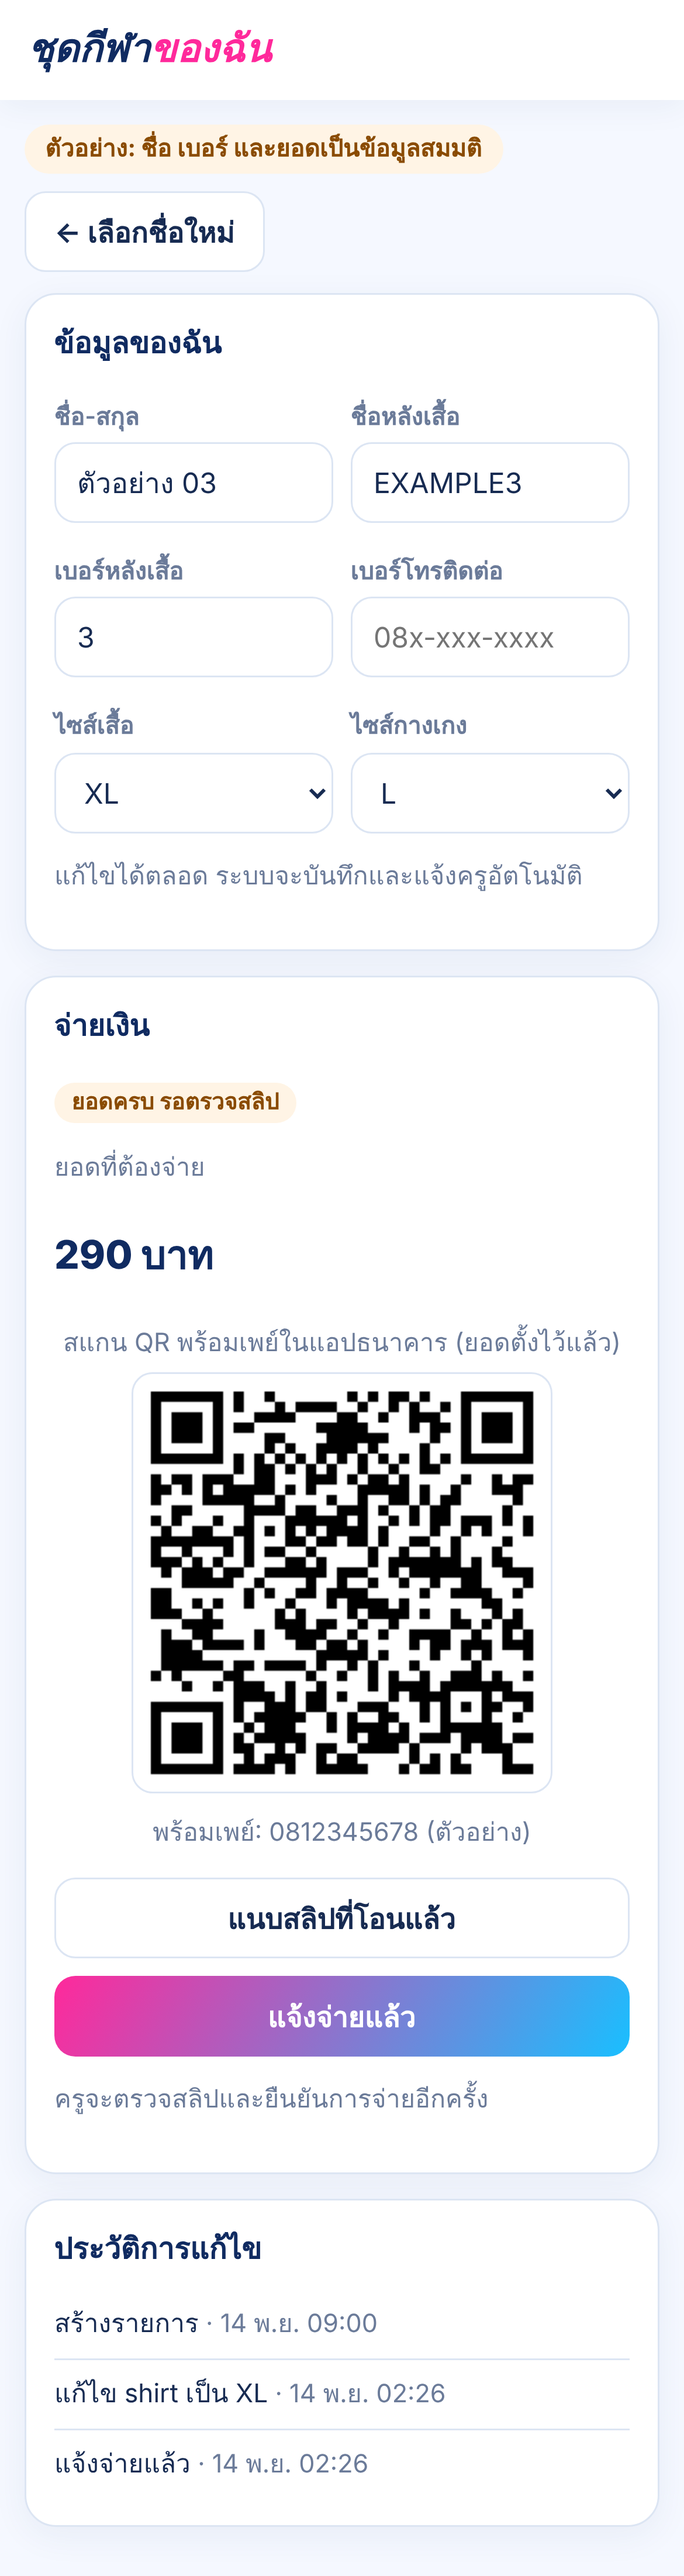
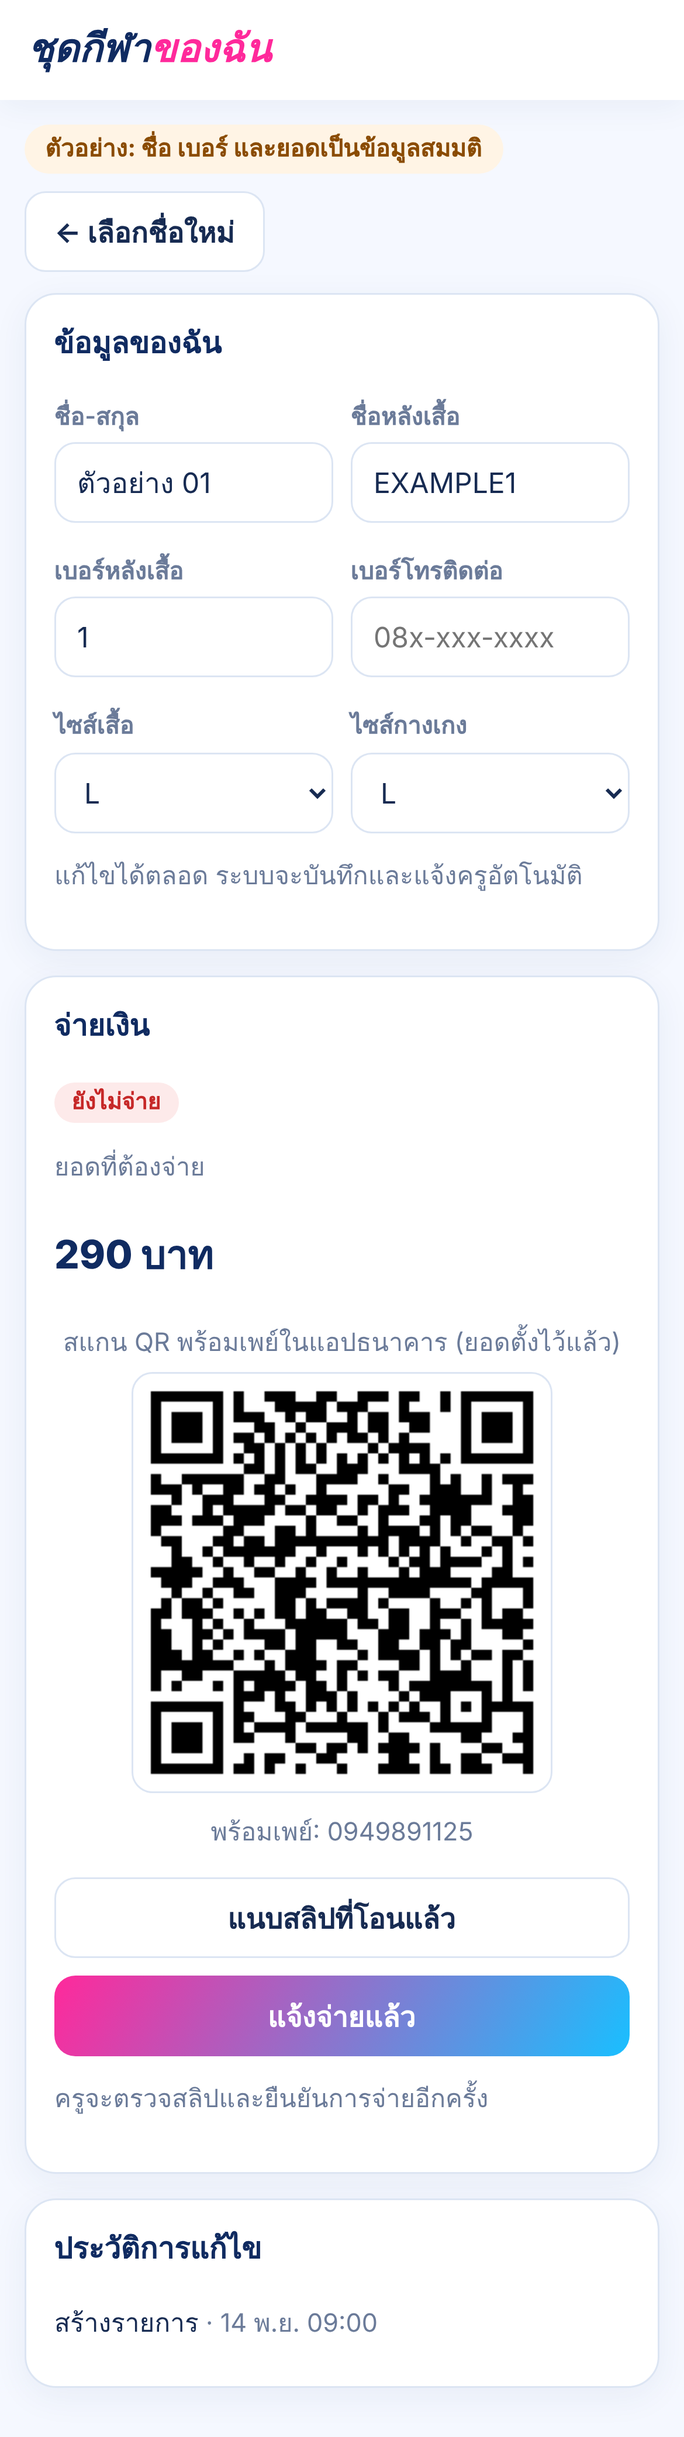
Use the PromptPay number for the member payment QR
Claude-Session: https://claude.ai/code/session_01LatjegdXUhezEsxLPmhD8J

diff --git a/firebase/preview/member-preview.html b/firebase/preview/member-preview.html
@@ -91,7 +91,7 @@ input,select{width:100%;font:inherit;font-size:16px;min-height:46px;padding:8px 
 
 <script>
 // ตัวอย่างข้อมูลสมมติทั้งหมด
-const PROMPTPAY_ID = "0812345678"; // เลขพร้อมเพย์ตัวอย่าง ต้องเปลี่ยนเป็นของบัญชีรับเงินจริง
+const PROMPTPAY_ID = "0949891125"; // เลขพร้อมเพย์ของบัญชีรับเงิน
 const PRICE = 290;
 const SIZES_SHIRT = ["SSS","SS","S","M","L","XL","2XL","3XL","4XL","5XL"];
 const SIZES_PANTS = ["SS","S","M","L","XL"];
@@ -160,7 +160,7 @@ function renderMe(){
   badge.textContent = LABEL[st];
   document.getElementById("amountText").textContent = PRICE.toLocaleString("th-TH") + " บาท";
   document.getElementById("qrImg").src = qrDataUrl(promptpayPayload(PROMPTPAY_ID, PRICE));
-  document.getElementById("ppId").textContent = "พร้อมเพย์: " + PROMPTPAY_ID + " (ตัวอย่าง)";
+  document.getElementById("ppId").textContent = "พร้อมเพย์: " + PROMPTPAY_ID + "";
   document.getElementById("markPaid").disabled = m.paid;
   document.getElementById("markPaid").textContent = m.paid ? "แจ้งจ่ายแล้ว" : "แจ้งจ่ายแล้ว";
   document.getElementById("histList").innerHTML = m.history.map(h =>
